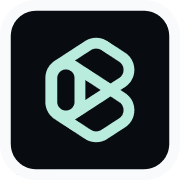
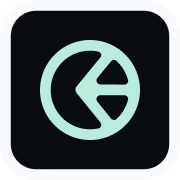
fix: styling and references

Changed region(s): [[0.2222, 0.1944, 0.7778, 0.8056]]

diff --git a/src/lib/components/Logo.svelte b/src/lib/components/Logo.svelte
@@ -12,16 +12,30 @@
 	<svg
 		width={size}
 		height={size}
-		viewBox="0 0 42 50"
+		viewBox="0 0 50 50"
 		fill="none"
 		xmlns="http://www.w3.org/2000/svg"
 	>
 		<path
 			fill-rule="evenodd"
 			clip-rule="evenodd"
-			d="M18.689 1.5688C21.9031 -0.522933 26.0483 -0.522935 29.2624 1.5688L37.5944 6.99122C43.4685 10.814 43.4685 19.4154 37.5944 23.2382L35.4451 24.637L37.5944 26.0357C43.4685 29.8586 43.4685 38.4599 37.5944 42.2827L29.2624 47.7052C26.0483 49.7969 21.9031 49.7969 18.689 47.7052L4.40558 38.4096C1.65758 36.6212 0 33.5648 0 30.2861V18.9878C0 15.7092 1.65758 12.6527 4.40558 10.8643L18.689 1.5688ZM34.8119 18.9627L30.769 21.5938L14.979 11.3178C14.6438 11.0996 14.303 10.9053 13.958 10.7341L21.4715 5.84433C22.9939 4.85351 24.9574 4.85351 26.4799 5.84433L34.8119 11.2667C37.5944 13.0776 37.5944 17.1519 34.8119 18.9627ZM18.8745 29.3347L26.0929 24.637L18.8745 19.9393V29.3347ZM14.979 37.9562C14.6438 38.1743 14.303 38.3686 13.958 38.5399L21.4715 43.4296C22.9939 44.4205 24.9574 44.4205 26.4799 43.4296L34.8119 38.0072C37.5944 36.1964 37.5944 32.1221 34.8119 30.3113L30.769 27.6802L14.979 37.9562ZM5.61133 19.0256C5.61133 16.7718 7.43844 14.9447 9.6923 14.9447C11.9462 14.9447 13.7733 16.7718 13.7733 19.0256V30.2483C13.7733 32.5022 11.9462 34.3293 9.6923 34.3293C7.43844 34.3293 5.61133 32.5022 5.61133 30.2483V19.0256Z"
+			d="M37.5368 46.6245C49.4621 39.7114 53.5419 24.4444 46.647 12.5021C39.7446 0.546767 24.4574 -3.54943 12.5021 3.35298C0.546767 10.2554 -3.54943 25.5426 3.35298 37.4979C10.2467 49.4381 25.504 53.5391 37.4526 46.6731C37.4809 46.6575 37.509 46.6413 37.5368 46.6245ZM29.2959 44.1694C30.6249 43.8711 31.0594 42.2852 30.2023 41.2266L18.3517 26.5892C18.2033 26.4131 18.0806 26.2212 17.9844 26.0191L17.983 26.0163C17.9612 25.9705 17.9407 25.9242 17.9217 25.8775C17.864 25.7363 17.819 25.5915 17.7867 25.4448C17.7369 25.2195 17.7169 24.9898 17.7258 24.7615C17.7403 24.3832 17.8332 24.0251 17.9886 23.703C18.087 23.4984 18.2124 23.3045 18.3643 23.1269L30.1448 8.77728C31.0144 7.71808 30.5796 6.12014 29.2416 5.82381C24.6154 4.79922 19.6071 5.43576 15.1802 7.99163C5.78675 13.4149 2.56831 25.4263 7.99163 34.8198C12.3936 42.4443 21.136 46.0005 29.2959 44.1694ZM42.1765 27.6525C43.3854 27.6585 44.3198 28.7315 44.0179 29.9022C43.0776 33.5494 41.095 36.926 38.2 39.5476C37.4058 40.2669 36.1866 40.1058 35.5124 39.2731L28.694 30.8514C27.6324 29.5401 28.5714 27.5845 30.2585 27.5929L42.1765 27.6525ZM44.0098 20.0466C44.3174 21.2244 43.3701 22.3021 42.1528 22.296L30.2449 22.2365C28.5607 22.2281 27.6404 20.2692 28.709 18.9675L35.4994 10.6962C36.1759 9.87221 37.3881 9.71599 38.1786 10.4314C39.6581 11.7703 40.957 13.3592 42.0084 15.1802C42.9112 16.7439 43.5745 18.3802 44.0098 20.0466Z"
 			fill="url(#paint0_linear)"
 		/>
+
+		<!-- <path
+			fill-rule="evenodd"
+			clip-rule="evenodd"
+			d="M18.689 1.5688C21.9031 -0.522933 26.0483 -0.522935 29.2624 1.5688L37.5944 6.99122C43.4685 10.814 43.4685 19.4154 37.5944 23.2382L35.4451 24.637L37.5944 26.0357C43.4685 29.8586 43.4685 38.4599 37.5944 42.2827L29.2624 47.7052C26.0483 49.7969 21.9031 49.7969 18.689 47.7052L4.40558 38.4096C1.65758 36.6212 0 33.5648 0 30.2861V18.9878C0 15.7092 1.65758 12.6527 4.40558 10.8643L18.689 1.5688ZM34.8119 18.9627L30.769 21.5938L14.979 11.3178C14.6438 11.0996 14.303 10.9053 13.958 10.7341L21.4715 5.84433C22.9939 4.85351 24.9574 4.85351 26.4799 5.84433L34.8119 11.2667C37.5944 13.0776 37.5944 17.1519 34.8119 18.9627ZM18.8745 29.3347L26.0929 24.637L18.8745 19.9393V29.3347ZM14.979 37.9562C14.6438 38.1743 14.303 38.3686 13.958 38.5399L21.4715 43.4296C22.9939 44.4205 24.9574 44.4205 26.4799 43.4296L34.8119 38.0072C37.5944 36.1964 37.5944 32.1221 34.8119 30.3113L30.769 27.6802L14.979 37.9562ZM5.61133 19.0256C5.61133 16.7718 7.43844 14.9447 9.6923 14.9447C11.9462 14.9447 13.7733 16.7718 13.7733 19.0256V30.2483C13.7733 32.5022 11.9462 34.3293 9.6923 34.3293C7.43844 34.3293 5.61133 32.5022 5.61133 30.2483V19.0256Z"
+			fill="url(#paint0_linear)"
+		/> -->
+
+		<!-- <path
+			fill-rule="evenodd"
+			clip-rule="evenodd"
+			d="M25 0C11.1929 0 0 11.1929 0 25C0 38.8071 11.1929 50 25 50C38.8071 50 50 38.8071 50 25C50 11.1929 38.8071 0 25 0ZM22.3214 7.30071C22.3214 6.36844 21.4966 5.64607 20.5879 5.85461C11.864 7.85685 5.35714 15.6686 5.35714 25C5.35714 34.3314 11.864 42.1431 20.5879 44.1454C21.4966 44.3539 22.3214 43.6316 22.3214 42.6993V7.30071ZM27.6786 32.3041C27.6786 31.1198 28.9606 30.3796 29.9863 30.9718L38.9844 36.1669C39.7929 36.6336 40.0053 37.7108 39.3687 38.3935C36.742 41.2102 33.2968 43.2538 29.4121 44.1454C28.5034 44.3539 27.6786 43.6316 27.6786 42.6993V32.3041ZM43.7875 30.7513C43.5147 31.6434 42.4763 31.997 41.6684 31.5306L32.6648 26.3323C31.6392 25.7402 31.6392 24.2598 32.6648 23.6677L41.6684 18.4694C42.4763 18.003 43.5147 18.3566 43.7875 19.2487C44.3436 21.0677 44.6429 22.9989 44.6429 25C44.6429 27.0011 44.3436 28.9323 43.7875 30.7513ZM39.3687 11.6065C40.0053 12.2892 39.7929 13.3664 38.9844 13.8331L29.9863 19.0282C28.9606 19.6204 27.6786 18.8802 27.6786 17.6959V7.30071C27.6786 6.36844 28.5034 5.64606 29.4121 5.85461C33.2968 6.7462 36.742 8.78975 39.3687 11.6065Z"
+			fill="url(#paint0_linear)"
+		/> -->
 
 		<defs>
 			<linearGradient
@@ -32,8 +46,8 @@
 				y2="7.5"
 				gradientUnits="userSpaceOnUse"
 			>
-				<stop stop-color="var(--color-primary-0)" />
-				<stop offset="1" stop-color="var(--color-primary-0)" />
+				<stop stop-color="var(--color-gray-100)" />
+				<stop offset="1" stop-color="var(--color-gray-200)" />
 			</linearGradient>
 		</defs>
 	</svg>

diff --git a/src/routes/index.svelte b/src/routes/index.svelte
@@ -9,7 +9,6 @@
 </script>
 
 <script>
-	import Logo from '$lib/components/Logo.svelte';
 	import Card from '$lib/components/Card.svelte';
 	import { description, principles, projects, quote, title } from '$lib/constants';
 
@@ -27,9 +26,8 @@
 </svelte:head>
 
 <main class="center center-w-5 center-g-1 | mt-2 mb-3">
-	<section class="articles | panel-l panel-w-2 my-3">
+	<section class="articles | panel-l panel-w-2 my-3 items-center">
 		<div class="flow-y flow-g-0">
-			<Logo class="self-start flow-next-2" />
 			<h1>Hi, I'm Kevin.</h1>
 			<span class="text-0 text-gray-300">
 				I'm a creative front-end engineer and <i>crinkles</i> is my UI development studio. I love
@@ -46,7 +44,8 @@
 			{/each}
 		</div>
 		<aside class="flow-y flow-g-0">
-			<h2 class="text-0 regular uppercase text-primary-0">Recent articles</h2>
+			<h2 class="text-0 regular uppercase text-primary-0 visually-hidden">Recent articles</h2>
+
 			{#each articles as article}
 				<Card>
 					<span class="text-00 text-gray-300 monospace uppercase">

diff --git a/src/lib/components/Crinkle.svelte b/src/lib/components/Crinkle.svelte
@@ -1,6 +1,8 @@
 <script>
 	let max = 6;
 	let triggered = 0;
+	let className = '';
+	export { className as class };
 	let colors = ['primary-0', 'secondary-0', 'tertiary-0'];
 
 	function trigger() {
@@ -15,7 +17,7 @@
 	$: if (triggered === max) triggered = 0;
 </script>
 
-<span on:mouseenter={trigger} class="bold">
+<span on:mouseenter={trigger} class={`bold ${className}`}>
 	<span class="transition-200 text-{colors[0]}">›</span><span
 		class="transition-200 text-{colors[1]}">›</span
 	><span class="transition-200 text-{colors[2]}">›</span>

diff --git a/src/routes/__layout.svelte b/src/routes/__layout.svelte
@@ -19,7 +19,7 @@
 
 	let twitter = '@crinklesio';
 	let keywords = 'CSS, front-end, web design, consulting, architecture';
-	let img = 'https://crinkles.io/logo.png';
+	let img = 'https://crinkles.io/icon-512.png';
 </script>
 
 <svelte:head>

diff --git a/content/data-fetching-swr-svelte.md b/content/data-fetching-swr-svelte.md
@@ -67,7 +67,7 @@ export const config = {
 ```
 
 :::
-I am using the [fsm >v0.11.0](https://github.com/crinklesio/fsm) package definitions for the state machine. Similar configurations can be created for XState or other libraries.
+I am using the [cogwheel >v1.0.0](https://github.com/crinklesio/cogwheel) package definitions for the state machine. Similar configurations can be created for XState or other libraries.
 :::
 
 ## Enhancing the global cache
@@ -84,14 +84,14 @@ In the remainer of this article, we will use the second method. However, the fir
 To benefit the state machine, it is important to not store the data in the cache, but the complete state machine. This allows us to use the current state of the machine when starting up the enhanced `swr` function in a UI component.
 
 ```js
-import { fsm } from '@crinkles/fsm';
+import { machine } from 'cogwheel';
 import { writable } from 'svelte/store';
 import { config, context } from './fetchMachineConfig';
 
 const cache = {};
 
 export function swr(url) {
-	if (!cache[url]) cache[url] = fsm('init', config, context);
+	if (!cache[url]) cache[url] = machine('init', config, context);
 
 	const { subscribe, set } = writable({}, () => {
 		// The listener function

diff --git a/content/state-management.md b/content/state-management.md
@@ -87,7 +87,7 @@ When we follow the visualized state machine, we can restrict the behavior in our
 In a similar way, many other important interactions can be modelled in a state machine. Think of forms (e.g. touched state) or the visibility of modals. You might think that booleans would suffice in many cases. But when you have to use multiple booleans to determine the correct state, a state machine is more efficient and less error prone.
 
 :::
-[XState](https://xstate.js.org/) is a popular state machine library that you can use in various frameworks. Is it too big and complex for you, try my [fsm](https://github.com/crinklesio/fsm) package.
+[XState](https://xstate.js.org/) is a popular state machine library that you can use in various frameworks. Is it too big and complex for you, try my [cogwheel](https://github.com/crinklesio/cogwheel) package.
 :::
 
 ## Wrapping up
